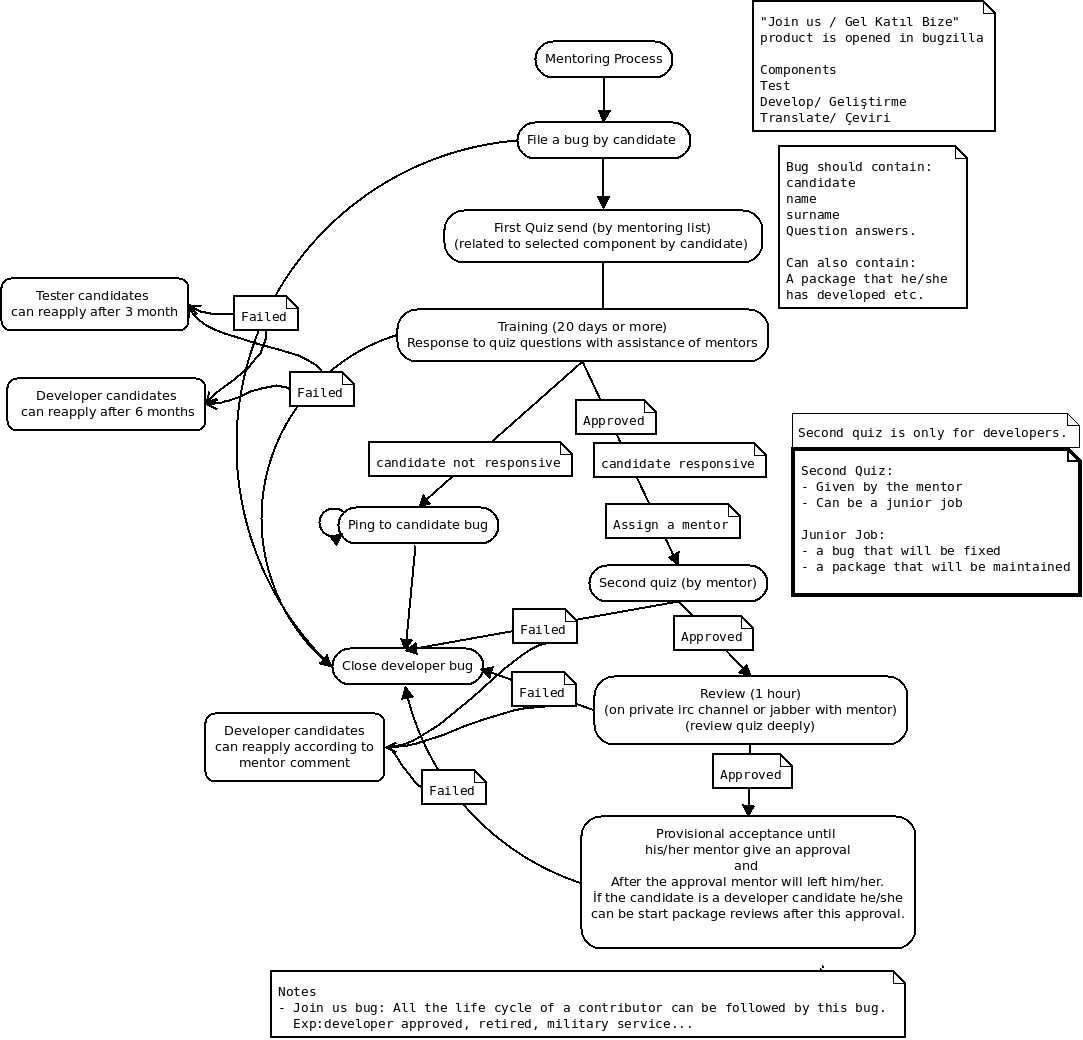
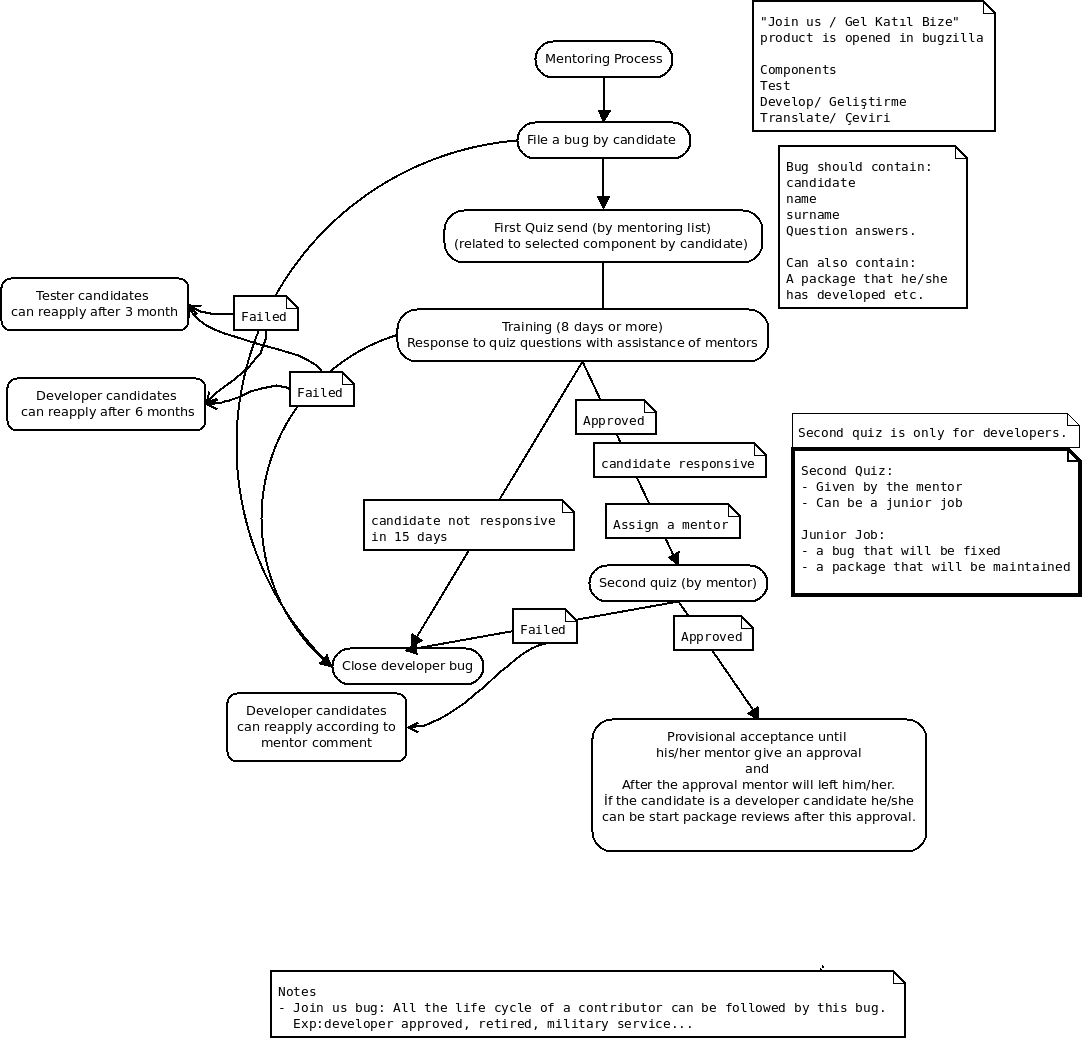
join us workflow updated.

diff --git a/doc/tr/joinus_policy/join_us_workflow.html b/doc/tr/joinus_policy/join_us_workflow.html
@@ -322,31 +322,50 @@ ul.auto-toc {
 <ol class="arabic">
 <li><p class="first">Aday &quot;Gel Katıl Bize&quot; ürününde istediği bileşen için hata açar.</p>
 </li>
-<li><p class="first">Hatanın içeriği aşağıda bulunan bilgileri içermelidir:</p>
+<li><p class="first">Hatanın başlığı &quot;Test/Geliştirme/Çeviri Adaylık Ad Soyad&quot; şeklinde olmalıdır.</p>
+</li>
+<li><p class="first">Hatanın &quot;Ayrıntılar&quot; kısmı aşağıda bulunan bilgilerin cevaplarını içermelidir:</p>
 <blockquote>
 <ol class="arabic simple">
 <li>Adayın Adı Soyadı ve e-posta adresi.</li>
-<li>Pardus'a neden katkı vermek istiyorsunuz?</li>
 <li>Hiç bir özgür yazılım projesine katkı verdiniz mi?</li>
+<li>Daha önce kullandığınız dağıtımlar nelerdir?</li>
+<li>Ne zamandır ve hangi seviyede Pardus'u kullanıyorsunuz?</li>
 <li>Bir özgür yazılım projesine katkıda bulunmak sizin için ne ifade ediyor?</li>
-<li>Sizce bir katkıcının sorumlulukları nelerdir?</li>
-<li>Bir özgür yazılım projesi için topluluk(community) kavramı nedir?</li>
+<li>Daha önce herhangi bir özgür yazılım projesine katkıda bulundunuz mu? Evetse, hangi projeye, ne şekilde, ne kadar zamandır?</li>
+<li>Pardus'a neden katkı vermek istiyorsunuz?</li>
+<li>Pardus'a haftada ne kadar vakit ayırabilirsiniz?</li>
+<li>Kısa özgeçmişin eke eklenmesi</li>
 </ol>
 </blockquote>
 </li>
-<li><p class="first">Aday, geliştirici olmak için başvuruyor ise hazırlamış olduğu paket(ler)i veya harhangi bir uygulama ile yaptığı değişikliği ek olarak ekleyebilir.</p>
+<li><dl class="first docutils">
+<dt>Aday, geliştirici olmak için başvuruyor ise:</dt>
+<dd><ol class="first last arabic simple">
+<li>Hazırlamış olduğu paket(ler)i veya harhangi bir uygulama ile yaptığı değişikliği,</li>
+<li>Pardus hata takip sisteminde çözmüş olduğu hata var ise bu kataların bağlantılarını,</li>
+<li>Diğer özgür yazılım projelerinde yapmış olduğu yazılım katkılarının (patch, hata çözme, paket yapımı, uygulama geliştirme) bilgileirini ve bağlantılarını vermelidir.</li>
+</ol>
+</dd>
+</dl>
 </li>
-<li><p class="first">Mentor listesi başvuran kişiye, başvurduğu görev ile ilgili quiz sorularını gönderir. (Not: Çevirmen için quiz soruları ve mentor süreci bulunmamaktadır, çevirmenin başvurması kabul için yeterli olacaktır.)</p>
+<li><p class="first">Çevirmen için quiz soruları ve mentor süreci bulunmamaktadır, çevirmenin başvurması ve yukarıda bulunan soruları cevaplaması kabul için yeterli olacaktır.</p>
 </li>
-<li><p class="first">Yaklaşık 20 gün gibi bir süre içerisinde adaylar quiz sorularını mentor listesine gönderirler.</p>
+<li><p class="first">Aday başvuru sırasında sorulan soruları lakayıt bir şekilde cevaplamış ise hatası direk olarak kapatılır.</p>
 </li>
-<li><p class="first">Eğer aday bu 20 gün içerisinde mentor listesi veya bugzilla üzerinden ulaşılabilir durumda değil ise bugzilla üzerinden pinglenir.</p>
+<li><p class="first">Adayın başvurması sonrasında adaya ilgili quiz soruları gönderilir. (Güvenlik hatalarına uygulanacak yöntem uygulanacaktır.)</p>
 </li>
-<li><p class="first">Pinglenme sonrasında hala ulaşılabilir değil ise açmış olduğu hata kapatılır.</p>
+<li><p class="first">Geliştirici adayları soruları yaklaşık 8 gün gibi bir süre içerisinde mentor listesi mailine gönderilir.</p>
 </li>
-<li><p class="first">Aday ulaşılabilir durumda ve quiz sorularını 20 gün içerisinde gönderilmiş ise, cevaplar mentor listesinde gözden geçirilir.</p>
+<li><p class="first">Testçi adayları soruları yaklaşık 15 gün gibi bir süre içerisinde mentor listesi mailine gönderilir.</p>
+</li>
+<li><p class="first">Eğer adaylara 20 gün içerisinde mentor listesi veya bugzilla üzerinden ulaşılamıyor ise hatası kapatılır.</p>
+</li>
+<li><p class="first">Aday ulaşılabilir durumda ve quiz sorularını ilgili gün içerisinde gönderilmiş ise, cevaplar bugzilla üzerinde mentorlar tarfından gözden geçirilip onaylanır.</p>
 </li>
 <li><p class="first">Gözden geçirme olumsuz sonuçlanır ise adayın açmış olduğu hata kapatılır.</p>
+</li>
+<li><p class="first">Aday bu aşamada reddedildiğinde; eğer test için başvurmuş ise 3 ay sonrasında, geliştirme için başvurmuş ise 6 ay sonrasında tekrar başvuru yapabilecektir.</p>
 </li>
 <li><p class="first">Gözden geçirme olumlu sonuçlanmış ise:</p>
 <blockquote>
@@ -356,36 +375,30 @@ ul.auto-toc {
 <li><p class="first">Aday geliştirici olmak için başvurmuş ise:</p>
 <blockquote>
 <ol class="arabic">
-<li><p class="first">Bu aday ile daha yakından ilgilenecek bir mentor atanır</p>
+<li><p class="first">Quiz'de bulunan sorular doğrultusunda adayın ilgili olduğu alana göre, aday ile daha yakından ilgilenecek bir mentor atanır.</p>
 </li>
 <li><dl class="first docutils">
-<dt>Adaya mentor tarafından bir küçük bir iş verilir.</dt>
-<dd><p class="first last">(Bu süreç içerisinde adaya playground için svn izinleri verilir.)
-(not: Küçük iş çözülecek bir hata veya yapılacak bir paket olabilir.)</p>
+<dt>Adaya mentor tarafından küçük bir iş verilir. (not: Küçük iş çözülecek bir hata veya yapılacak bir paket olabilir.)</dt>
+<dd><ol class="first last arabic simple">
+<li>Bu süreç içerisinde adaya playground için svn izinleri verilir.</li>
+<li>Bu süre içerisinde yapmış olduğu paketlerin sahibi mentor'u olacaktır.</li>
+</ol>
 </dd>
 </dl>
 </li>
 <li><dl class="first docutils">
-<dt>Aday mentorun belirtmiş olduğu sürede bu verilen küçük işe yerine getiremez ise</dt>
+<dt>Aday mentorun belirtmiş olduğu sürede bu verilen küçük işi yerine getiremez ise</dt>
 <dd><p class="first last">hatası kapatılır. (playground svn izinleri de kapatılır)</p>
 </dd>
 </dl>
 </li>
 <li><dl class="first docutils">
-<dt>Aday verilen işi yerine getirebilir ise mentor jabber veya irc üzerinden</dt>
-<dd><p class="first last">geliştiriyi ve yapmış olduklarını gözden geçirir.</p>
-</dd>
-</dl>
-</li>
-<li><p class="first">Aday bu mentor gözden geçirme sürecini geçemez ise hatası kapatılır.</p>
-</li>
-<li><dl class="first docutils">
 <dt>Aday gözden geçirme sürecini geçer ise:</dt>
 <dd><ol class="first last arabic simple">
-<li>uludağ, devel vb. svn izinleri verilir ve geliştirici olarak kabul edilir.</li>
+<li>uludağ, devel vb. svn izinleri verilir ve geliştirici olarak kabul edilir. Adaylık sürecinde yapmış olduğu paketler ve diğer işler mentor'undan adaya devredilir.</li>
 <li>Mentor bu yeni geliştiricinin olgunluğa eriştiğine emin olana kadar yeni geliştiriciyi yakından takip eder ve geliştiricinin paketlerinin gözden geçirilme sürecine katılır.</li>
 <li>Geliştirici mentor'u olduğu sürece paket gözden geçiremeyecektir.</li>
-<li>Mentor geliştiriciden emin olduğunda geliştiricinin mentorluğunu bıraktığını ilan eder ve geliştirici bu noktadan itibaren paket gözden geçirebilir.</li>
+<li>Mentor geliştiriciden emin olduğunda geliştiricinin mentorluğunu bıraktığını bugzilla üzerinden yorum olarak ilan eder ve geliştirici bu andan itibaren paket gözden geçirebilme iznine sahip olur.</li>
 </ol>
 </dd>
 </dl>
@@ -410,6 +423,14 @@ ul.auto-toc {
 </ul>
 </blockquote>
 </blockquote>
+</li>
+<li><p class="first">Adaya bir mentor atanana kadar (bugzillla'yı gözden geçirip, quiz iletme ve pingleme, mentor atama uyarısı verme vb.) idare edecek iki kişi olacaktır.</p>
+</li>
+<li><p class="first">Mentor atandıktan sonra adayın sorumluluğu mentorunda bulunmaktadır ve bugzilla'da gerekli yorumları mentoru yapacaktır.</p>
+</li>
+<li><p class="first">Aday geliştirici olduktan sonra ise kendi durumu ile ilgili yorumları askerlik, ayrılma, tatile gitme gibi durumları kendi girer.</p>
+</li>
+<li><p class="first">Geliştirici olduktan sonra adaydan haber alınamaması durumunda eski mentor'u gerekli ping'leri bugzilla üzerinden yapar ve geliştiriciye ulaşamaması durumunda hatasını gerekli açıklamayı yaparak kapatır.</p>
 </li>
 </ol>
 </div>

diff --git a/doc/tr/joinus_policy/join_us_workflow.rst b/doc/tr/joinus_policy/join_us_workflow.rst
@@ -22,16 +22,19 @@ Bugzilla üzerinden Pardus gönüllü takibi
     #. Daha önce herhangi bir özgür yazılım projesine katkıda bulundunuz mu? Evetse, hangi projeye, ne şekilde, ne kadar zamandır?
     #. Pardus'a neden katkı vermek istiyorsunuz?
     #. Pardus'a haftada ne kadar vakit ayırabilirsiniz?
+    #. Kısa özgeçmişin eke eklenmesi
 
-#. Aday, geliştirici olmak için başvuruyor ise hazırlamış olduğu paket(ler)i veya harhangi bir uygulama ile yaptığı değişikliği ek olarak ekleyebilir.
-#. Mentor listesi başvuran kişiye, başvurduğu görev ile ilgili quiz sorularını gönderir.
+#. Aday, geliştirici olmak için başvuruyor ise:
+    #. Hazırlamış olduğu paket(ler)i veya harhangi bir uygulama ile yaptığı değişikliği,
+    #. Pardus hata takip sisteminde çözmüş olduğu hata var ise bu kataların bağlantılarını,
+    #. Diğer özgür yazılım projelerinde yapmış olduğu yazılım katkılarının (patch, hata çözme, paket yapımı, uygulama geliştirme) bilgileirini ve bağlantılarını vermelidir.
 #. Çevirmen için quiz soruları ve mentor süreci bulunmamaktadır, çevirmenin başvurması ve yukarıda bulunan soruları cevaplaması kabul için yeterli olacaktır.
-#. Aday başvuru sırasında sorulan soruları lakayıt bir şekilde cevaplamış ise hatası kapatılabilir.
-#. Adayın başvurması sonrasında adaya ilgili quiz soruları gönderilir.
-#. Yaklaşık 20 gün gibi bir süre içerisinde adaylar quiz sorularını mentor listesine gönderirler.
-#. Eğer aday bu 20 gün içerisinde mentor listesi veya bugzilla üzerinden ulaşılabilir durumda değil ise bugzilla üzerinden pinglenir.
-#. Pinglenme sonrasında hala ulaşılabilir değil ise açmış olduğu hata kapatılır.
-#. Aday ulaşılabilir durumda ve quiz sorularını 20 gün içerisinde göndermiş ise, cevaplar mentor listesinde tüm mentorlar tarafından gözden geçirilir.
+#. Aday başvuru sırasında sorulan soruları lakayıt bir şekilde cevaplamış ise hatası direk olarak kapatılır.
+#. Adayın başvurması sonrasında adaya ilgili quiz soruları gönderilir. (Güvenlik hatalarına uygulanacak yöntem uygulanacaktır.)
+#. Geliştirici adayları soruları yaklaşık 8 gün gibi bir süre içerisinde mentor listesi mailine gönderilir.
+#. Testçi adayları soruları yaklaşık 15 gün gibi bir süre içerisinde mentor listesi mailine gönderilir.
+#. Eğer adaylara 20 gün içerisinde mentor listesi veya bugzilla üzerinden ulaşılamıyor ise hatası kapatılır.
+#. Aday ulaşılabilir durumda ve quiz sorularını ilgili gün içerisinde gönderilmiş ise, cevaplar bugzilla üzerinde mentorlar tarfından gözden geçirilip onaylanır.
 #. Gözden geçirme olumsuz sonuçlanır ise adayın açmış olduğu hata kapatılır.
 #. Aday bu aşamada reddedildiğinde; eğer test için başvurmuş ise 3 ay sonrasında, geliştirme için başvurmuş ise 6 ay sonrasında tekrar başvuru yapabilecektir.
 #. Gözden geçirme olumlu sonuçlanmış ise:
@@ -45,9 +48,6 @@ Bugzilla üzerinden Pardus gönüllü takibi
             #. Bu süre içerisinde yapmış olduğu paketlerin sahibi mentor'u olacaktır.
         #. Aday mentorun belirtmiş olduğu sürede bu verilen küçük işi yerine getiremez ise
             hatası kapatılır. (playground svn izinleri de kapatılır)
-        #. Aday verilen işi yerine getirebilir ise mentor jabber veya irc üzerinden
-            adayı ve yapmış olduklarını gözden geçirir.
-        #. Aday bu sözel gözden geçirme sürecini geçemez ise hatası mentor tarafından kapatılır. Mentor hatayı kapatırken adayın kendini geliştirdiği takdirde yeniden başvurabilmesi için belirli bir süre önerir ve aday bu süre sonrasında tekrar başvuruda bulunabilir.
         #. Aday gözden geçirme sürecini geçer ise:
             #. uludağ, devel vb. svn izinleri verilir ve geliştirici olarak kabul edilir. Adaylık sürecinde yapmış olduğu paketler ve diğer işler mentor'undan adaya devredilir.
             #. Mentor bu yeni geliştiricinin olgunluğa eriştiğine emin olana kadar yeni geliştiriciyi yakından takip eder ve geliştiricinin paketlerinin gözden geçirilme sürecine katılır.
